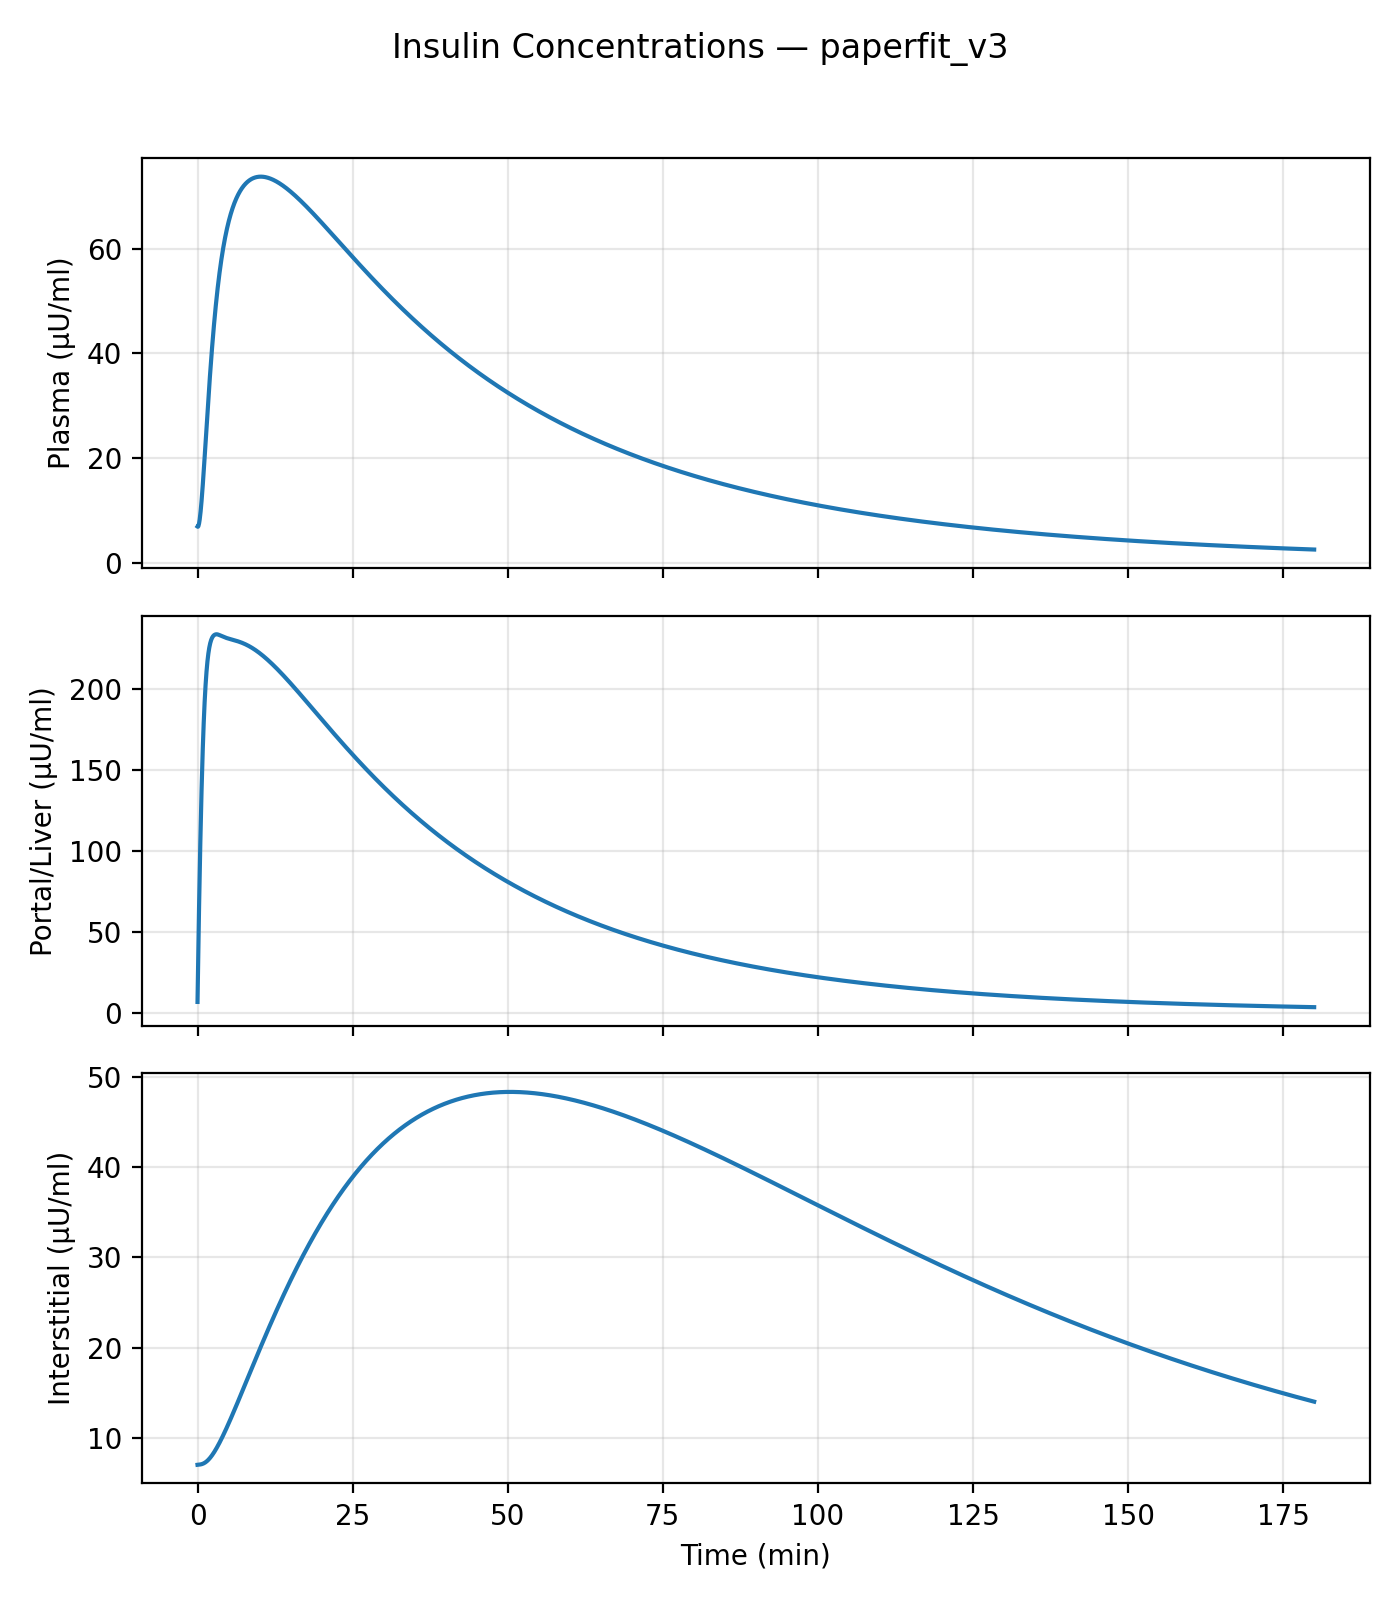
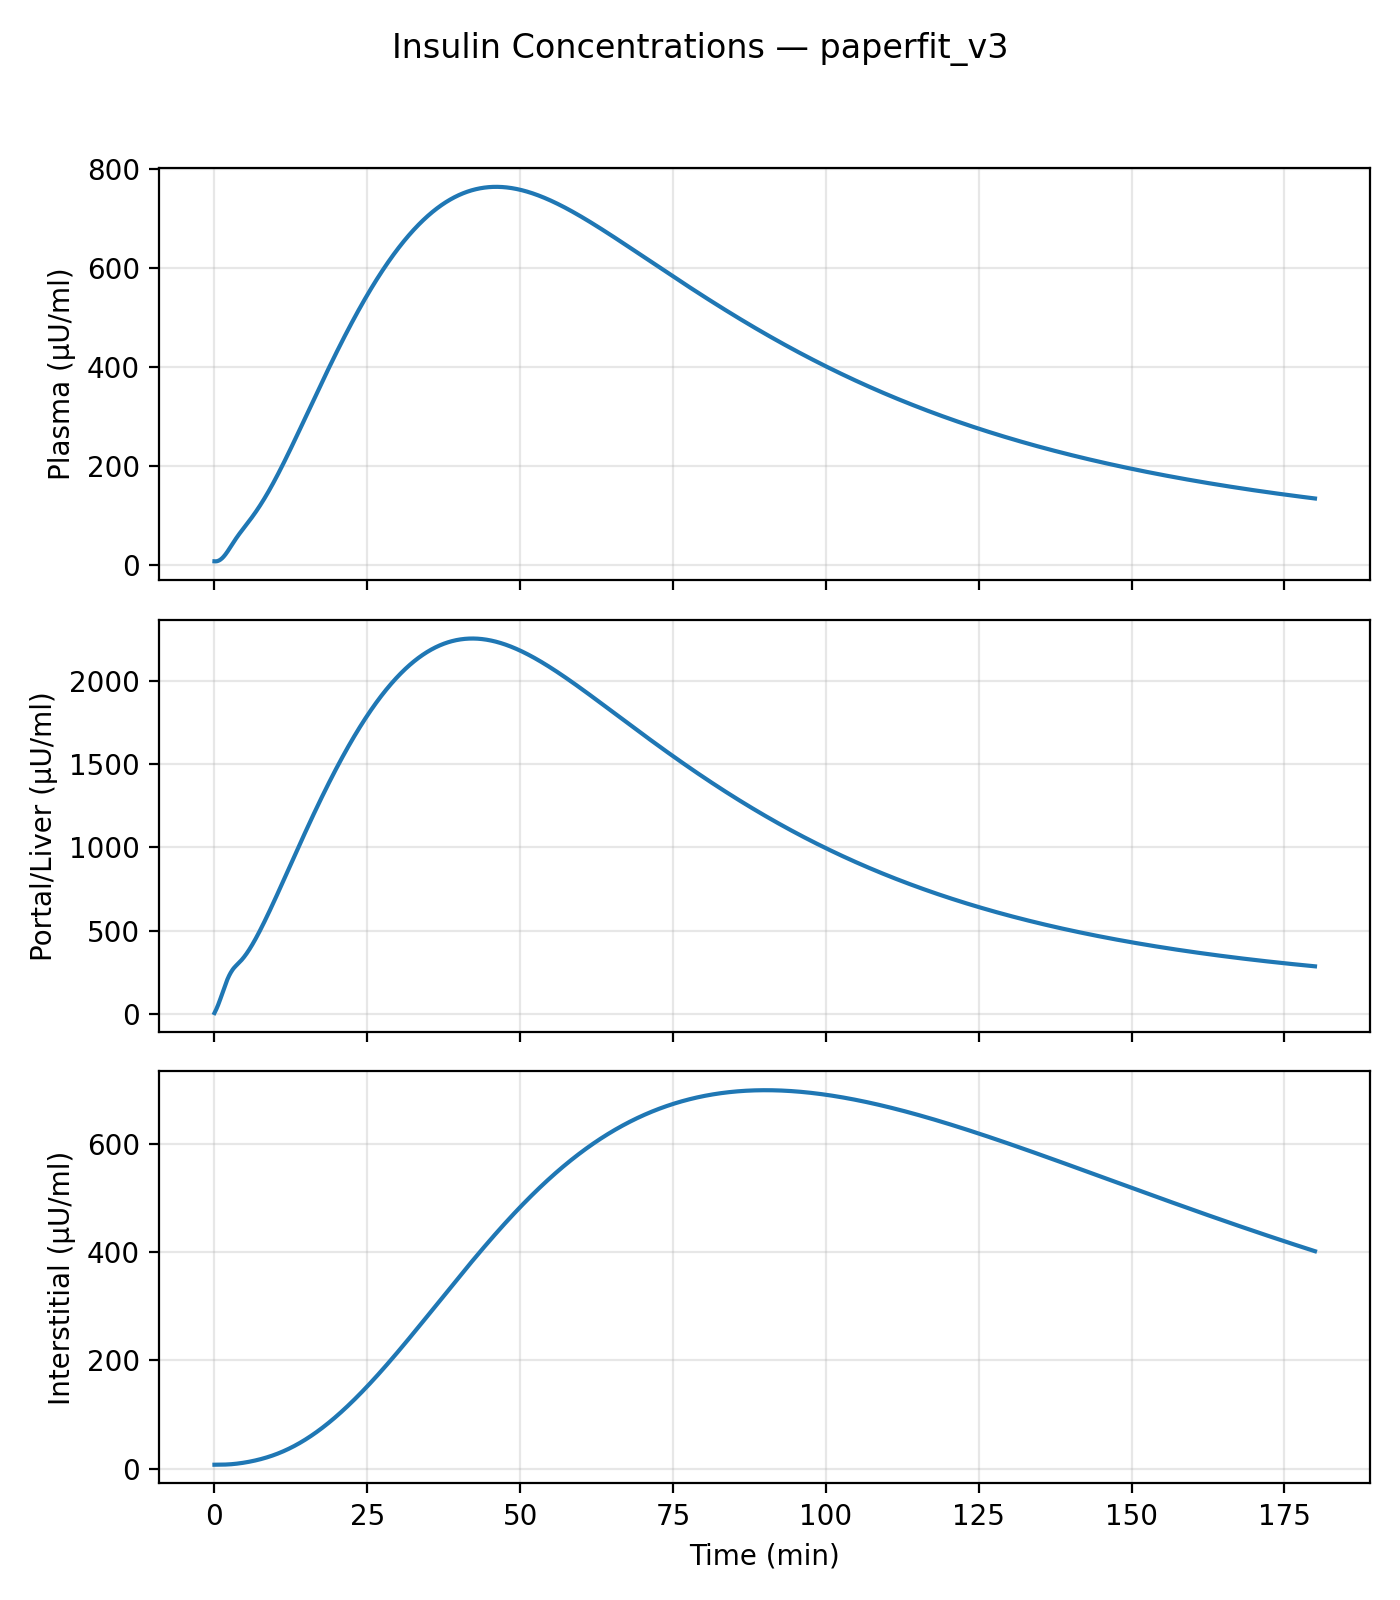
dodělám zítra xd

diff --git a/version_2_vzdavam_se/main.py b/version_2_vzdavam_se/main.py
@@ -173,6 +173,23 @@ def solve_glucagon_gain(P):
     M7b = 0.5*(1 - np.tanh(P.b72*(0 + P.c72)))
     target = P.h01 * P.y5_bas * P.V2
     return target / max(1e-12, H7b*M7b)
+def solve_insulin_basal(P, u1p0, u2p0):
+    """
+    Choose c6 (secretion setpoint) so F6_bas = k01*u1p0
+    and a5 (synthesis scale) so W_bas = k01*u1p0 - k21*u2p0.
+    Keeps u1p/u2p steady at basal.
+    """
+    # --- match secretion at basal: F6 = 0.5*a6*(1+tanh(b6*c6))*u2p0 = k01*u1p0
+    q = (2.0*P.k01*u1p0)/(P.a6*u2p0) - 1.0               # = tanh(b6*c6)
+    q = float(np.clip(q, -0.999, 0.999))
+    P.c6 = (np.arctanh(q))/P.b6
+
+    # --- match synthesis at basal: W = 0.5*a5*(1+tanh(b5*c5)) = k01*u1p0 - k21*u2p0
+    W0 = P.k01*u1p0 - P.k21*u2p0
+    g  = 0.5*(1.0 + np.tanh(P.b5*(0.0 + P.c5)))          # basal activation
+    P.a5 = W0 / max(g, 1e-12)
+    return P
+
 
 # ---------- ODEs ----------
 def rhs(t, s, P):
@@ -220,6 +237,7 @@ def integrate(f, t0, tf, dt, y0, P):
 
 os.makedirs("results_paperfit_v3", exist_ok=True)
 P = set_volumes(P); P.a7 = solve_glucagon_gain(P)
+P = solve_insulin_basal(P, u1p0=4.9e6, u2p0=4.9e5)
 T, Y = integrate(rhs, 0.0, 180.0, 0.05, initial_state(P), P)
 
 # ---------- derived & plots ----------
